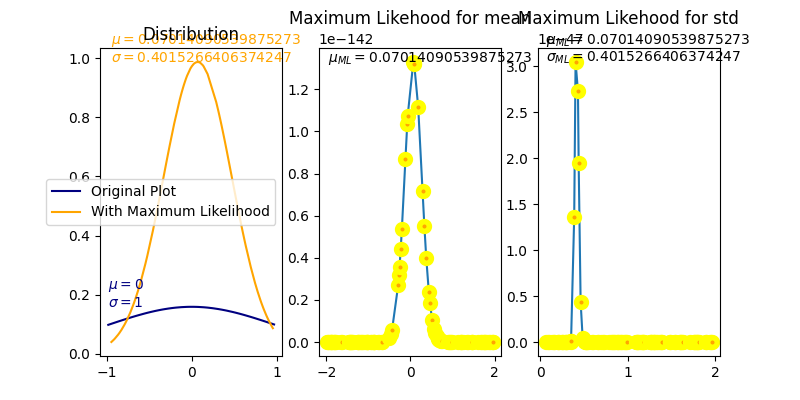
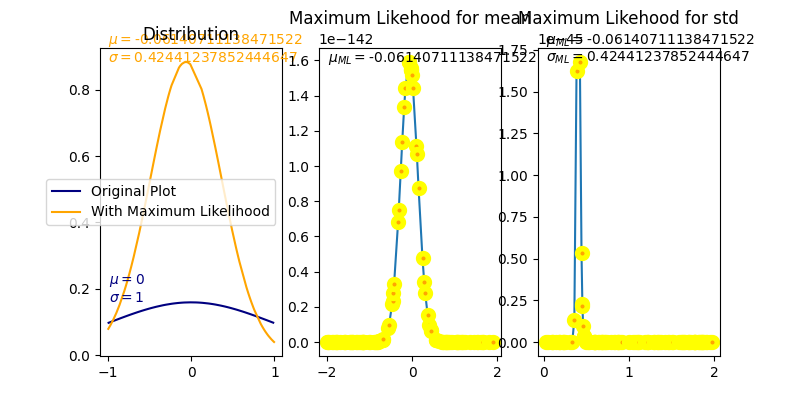
Maximum Likelihood derivation Commit

diff --git a/Bishop_Pattern_Recognition/Chapter1/Maximum_Likelihood.py b/Bishop_Pattern_Recognition/Chapter1/Maximum_Likelihood.py
@@ -102,11 +102,14 @@ class MaximumLikelihood:
         dist_df = self.distribution.sort_values(by='X', ignore_index=True)
         mean_ML = dist_df.X.sum()/self.no_of_datapoints
         variance_ML = dist_df['X'].apply(lambda x: np.power((x-mean_ML),2)).sum()
-        std_ML = np.sqrt((variance_ML/self.no_of_datapoints))
+        #std_ML = np.sqrt((variance_ML/self.no_of_datapoints))
+        #adding unbiased std
+        std_ML = np.sqrt((variance_ML/(self.no_of_datapoints - 1)))
         print(mean_ML)
         print(std_ML)
 
         fig_1, axes_1 = plt.subplots(figsize=(8, 4), nrows=1, ncols=1)
+
         axes_1.set_title("Gaussian Distribution")
         axes_1.set_ylim([0,1])
         axes_1.set_xlim([-1.5, 1.5])
